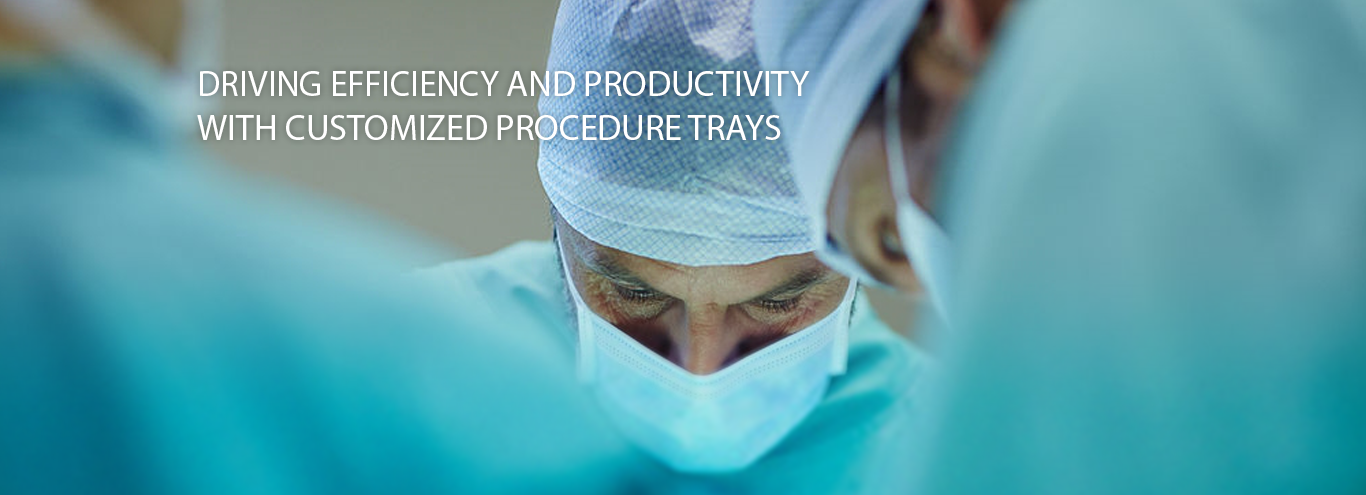
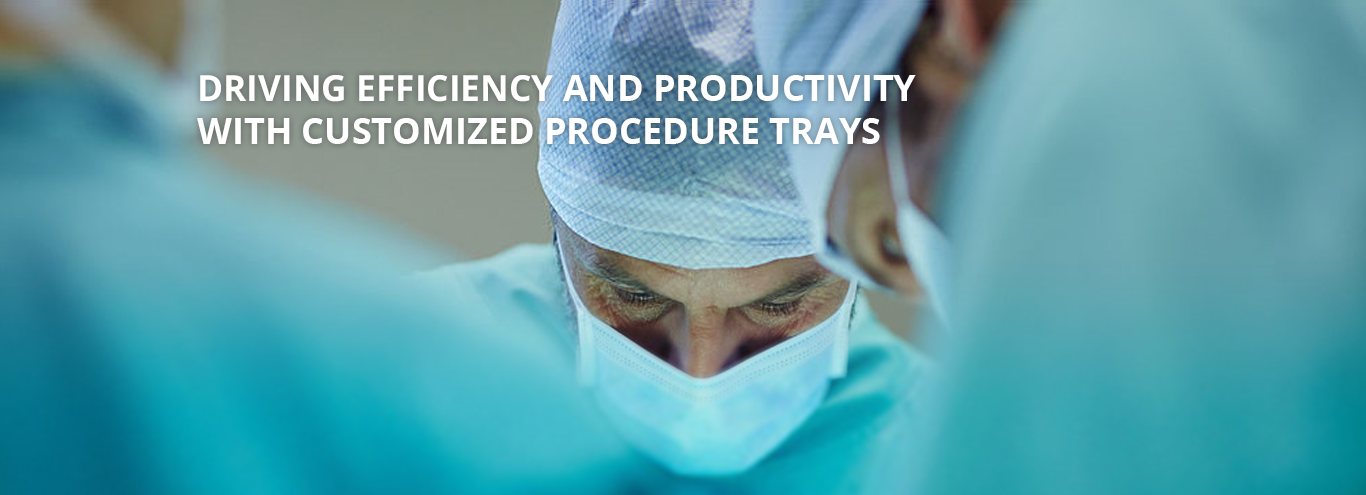
- fix O.R. => OR on slider and <p> - fix slier first img font family

diff --git a/index.html b/index.html
@@ -15,6 +15,7 @@
     <link rel="stylesheet" type="text/css" href="css/message.css"/>
     <link rel="stylesheet" type="text/css" href="css/soon.css"/>
 
+    <!--TODO Use local font family-->
     <link href="https://fonts.googleapis.com/css?family=Open+Sans" rel="stylesheet">
 
     <title>Home Page</title>
@@ -95,7 +96,7 @@
 <!-- *******************       -->
 <div class="part3">
     <div class="p1_part3">ACHIEVE BETTER OUTCOMES WITH OPERATING ROOM EFFICIENCY</div>
-    <div class="p2_part3">IMPROVE O.R THROUGHPUT AND REDUCE OR SETUP TIME</div>
+    <div class="p2_part3">IMPROVE OR THROUGHPUT AND REDUCE OR SETUP TIME</div>
 </div>
 <!-- *******************  -->
 <div class="part4">

diff --git a/css/header.css b/css/header.css
@@ -83,7 +83,9 @@
     display: flex;
     flex-direction: column;
     justify-content: space-between;
-    margin: 45px;
+    /*Pour que le margin sois responsive*/
+    margin: 3vw;
+    /*margin: 45px;*/
     border: thin solid #bcaeaa;
     max-width: 250px;
     height: 330px;
@@ -527,7 +529,9 @@
 }
 .img10{
     position: relative;
-    margin-left: 65px;
+    /*La valeur en viewWidth est mieux adapté pour le responsive*/
+    margin-left: 4vw;
+    /*margin-left: 65px;*/
 }
 .menu_part10 {
     display: flex;
